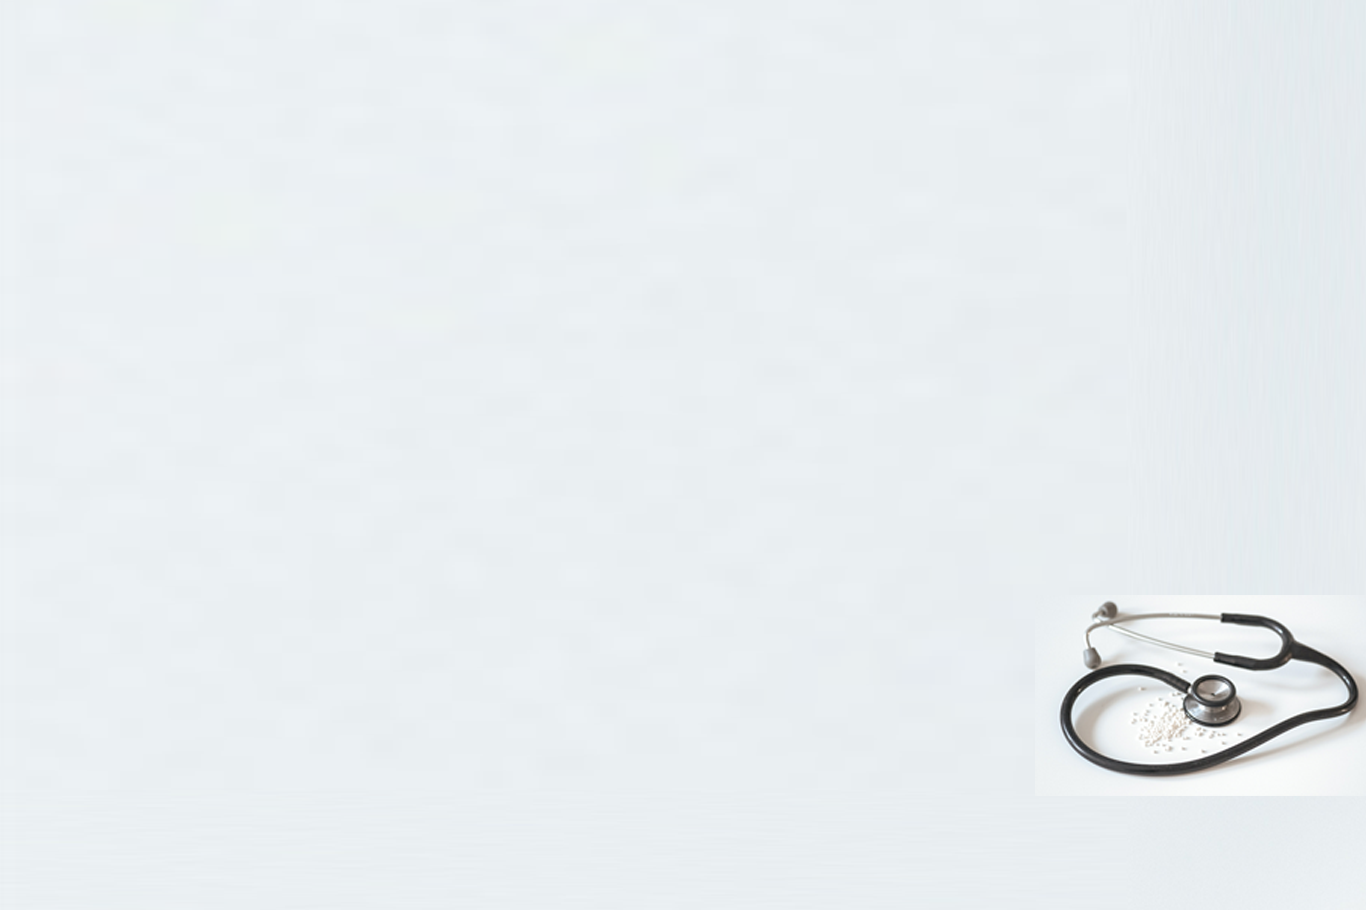
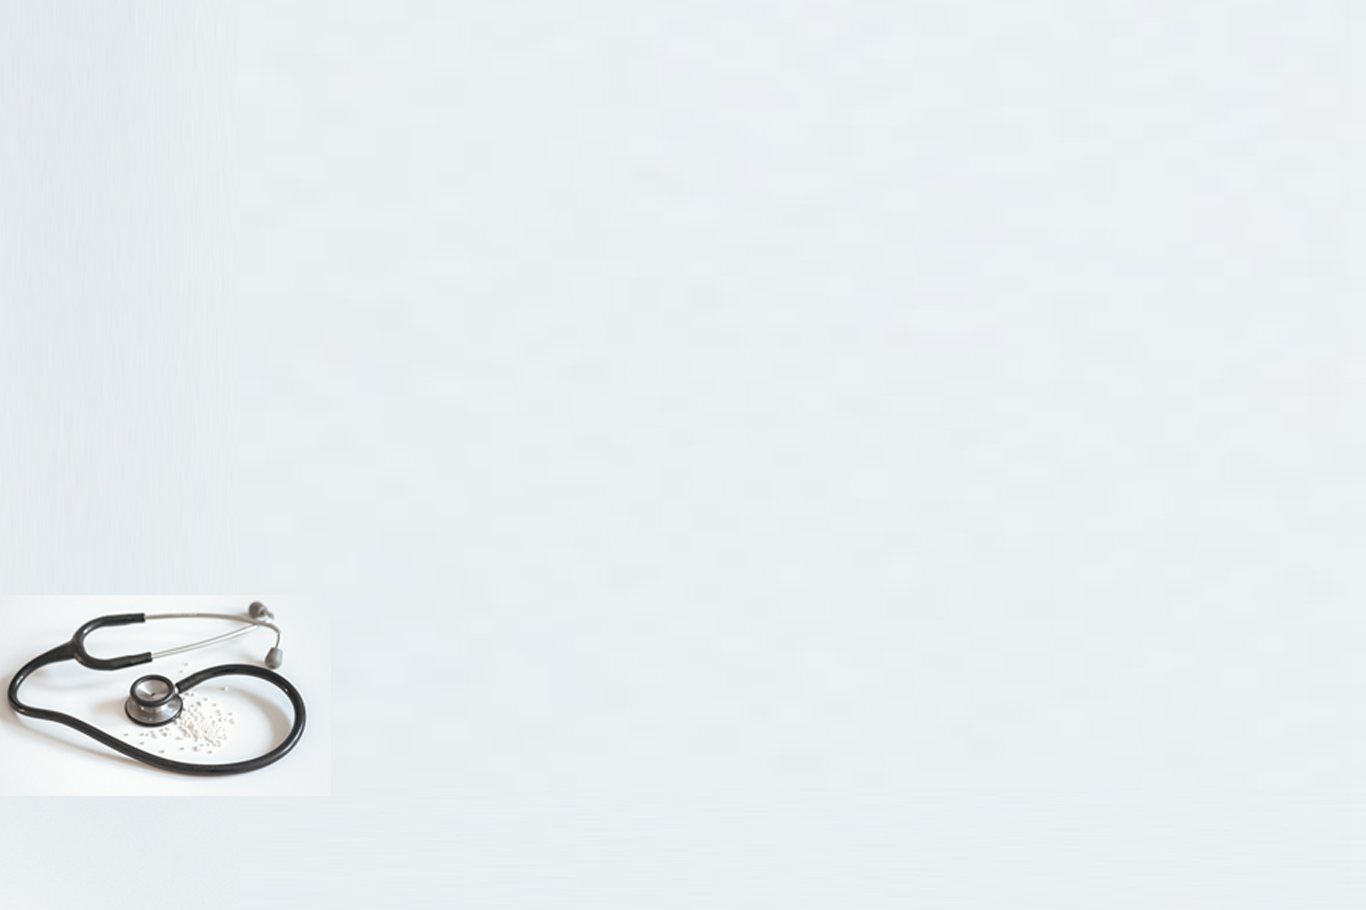
Editan dari rumah

Changed region(s): [[0.0, 0.6462, 0.246, 0.8615], [0.7687, 0.6462, 1.0, 0.8615]]

diff --git a/index.html b/index.html
@@ -10,9 +10,9 @@
 </head>
 <body>
 <div class="body">
-
    <div class="sosmed">
         <ul>
+            <li><a href="#"><i class="fa fa-globe"></i></a></li>
             <li><a href="#"><i class="fab fa-facebook-square"></i></a></li>
             <li><a href="#"><i class="fab fa-instagram-square"></i></a></li>
             <li><a href="#"><i class="fab fa-youtube-square"></i></a></li>
@@ -20,17 +20,28 @@
             <li><a href="#"><i class="fab fa-whatsapp-square"></i></a></li>
         </ul>
     </div>
+    <div class="side-bar">
+        <div class="sosmed2">
+            <ul>
+                <li><a href="#"><i class="fas fa-stethoscope"></i></a></li>
+                <li><a href="#"><i class="far fa-calendar-alt"></i></a></li>
+                <li><a href="#"><i class="fas fa-phone-square-alt"></i></a></li>
+                <li><a href="#"><i class="fas fa-hand-holding-medical"></i></a></li>
+                <li><a href="#"><i class="fas fa-first-aid"></i></a></li>
+            </ul>
+        </div>
+    </div>
     <div class="container">
         <div class="box-header">
            <div class="header">
-                <h1 class="judul">BHAKTI KARTINI</h1>
+                <h1 class="judul"><a href="https://yhamid01.github.io/">BHAKTI KARTINI</a></h1>
                 <small class="melayani">Melayani Sepenuh Hati Setiap Hari Tiada Henti</small>
                 <ul>
-                    <li><a href="#">home</a></li>
-                    <li><a href="#">about</a></li>
-                    <li><a href="#">product</a></li>
-                    <li><a href="#">service</a></li>
-                    <li><a href="#">contact</a></li>
+                    <li><a href="#">Beranda</a></li>
+                    <li><a href="#">Tentang Kami</a></li>
+                    <li><a href="#">Dokter</a></li>
+                    <li><a href="#">Pelayanan</a></li>
+                    <li><a href="#">Kontak</a></li>
                 </ul>
             </div> 
         </div>        
@@ -39,26 +50,30 @@
                     <h1>WELCOME TO RS BHAKTI KARTINI</h1>
                 </div>
             </div>
-                <div class="contain">
-                    <h2>Judul Artikel</h2>
-                    <p class="penulis">Ditulis oleh <a href="#">Yasir Abdul Hamid</a> pada 9 November 2020</p>
-                    <p>Lorem ipsum, dolor sit amet consectetur adipisicing elit. Nostrum architecto ratione eius. Quidem assumenda iste ducimus velit aut fugiat, doloribus inventore aspernatur consequuntur ipsa fugit distinctio ad natus alias rerum dicta reprehenderit iure! Voluptatum, sed reprehenderit beatae eum tempore ut cupiditate culpa perferendis sequi id rem quidem iure at itaque iusto accusantium quia mollitia officiis, sunt ipsam ipsa asperiores numquam corrupti? Ex, officiis adipisci iusto, accusamus odio corrupti expedita sed similique in deleniti, facilis excepturi quis ab possimus eligendi doloremque harum non magni quos tenetur! Libero ea minima amet voluptatem perspiciatis omnis nulla, itaque quaerat consectetur, dolores laboriosam iste excepturi.</p>
-                    <p>Lorem ipsum dolor sit amet, consectetur adipisicing elit. Incidunt laborum soluta praesentium necessitatibus cupiditate placeat, totam possimus aspernatur hic minima? Cum aperiam, ut praesentium magni delectus voluptatem ad perferendis sed culpa reprehenderit in dicta iste nobis assumenda quibusdam tenetur neque ea necessitatibus illum libero amet molestias? Rem quibusdam unde modi.</p>
-                </div>         
-            <div class="footer">
-                <p class="copy">Copyright 2020, Rumah Sakit Bhakti Kartini</p>
-            </div>     
+            <div class="contain">
+                <h2>Visi</h2>                    
+                <p>Lorem ipsum, dolor sit amet consectetur adipisicing elit. Nostrum architecto ratione eius. Quidem assumenda iste ducimus velit aut fugiat, doloribus inventore aspernatur consequuntur ipsa fugit distinctio ad natus alias rerum dicta reprehenderit iure!.</p>
+                <h2>Misi</h2>                    
+                <p>Lorem ipsum, dolor sit amet consectetur adipisicing elit. Nostrum architecto ratione eius. Quidem assumenda iste ducimus velit aut fugiat, doloribus inventore aspernatur consequuntur ipsa fugit distinctio ad natus alias rerum dicta reprehenderit iure!. Lorem ipsum, dolor sit amet consectetur adipisicing elit. Nostrum architecto ratione eius. Quidem assumenda iste ducimus velit aut fugiat, doloribus inventore aspernatur consequuntur ipsa fugit distinctio ad natus alias rerum dicta reprehenderit iure!.</p>
+                    
+            </div>
+
+                <div class="art cf">
+                    <div class="art1"><h3><b>Judul Artikel1</b></h3><p class="penulis"><p class="penulis">Ditulis oleh <a href="#">Yasir Abdul Hamid</a> pada 9 November 2020</p><p> <img src="img/art1.png"></img>
+                    Lorem ipsum, dolor sit amet consectetur adipisicing elit. Nostrum architecto ratione eius. Quidem assumenda iste ducimus velit aut fugiat, doloribus inventore aspernatur consequuntur ipsa fugit distinctio ad natus alias rerum dicta reprehenderit iure!.</p></div>
+                    <div class="art2"><h3><b>Judul Artikel2</b></h3><p class="penulis"><p class="penulis">Ditulis oleh <a href="#">Yasir Abdul Hamid</a> pada 9 November 2020</p><p> <img src="img/art2.png"></img>
+                    Lorem ipsum, dolor sit amet consectetur adipisicing elit. Nostrum architecto ratione eius. Quidem assumenda iste ducimus velit aut fugiat, doloribus inventore aspernatur consequuntur ipsa fugit distinctio ad natus alias rerum dicta reprehenderit iure!.</p></div>
+                    <div class="art3"><h3><b>Judul Artikel1</b></h3><p class="penulis"><p class="penulis">Ditulis oleh <a href="#">Yasir Abdul Hamid</a> pada 9 November 2020</p><p> <img src="img/art3.png"></img>
+                    Lorem ipsum, dolor sit amet consectetur adipisicing elit. Nostrum architecto ratione eius. Quidem assumenda iste ducimus velit aut fugiat, doloribus inventore aspernatur consequuntur ipsa fugit distinctio ad natus alias rerum dicta reprehenderit iure!.</p></div>
+                    <div class="art4"><h3><b>Judul Artikel2</b></h3><p class="penulis"><p class="penulis">Ditulis oleh <a href="#">Yasir Abdul Hamid</a> pada 9 November 2020</p><p> <img src="img/art4.png"></img>
+                    Lorem ipsum, dolor sit amet consectetur adipisicing elit. Nostrum architecto ratione eius. Quidem assumenda iste ducimus velit aut fugiat, doloribus inventore aspernatur consequuntur ipsa fugit distinctio ad natus alias rerum dicta reprehenderit iure!.</p></div>
+                    
+
+                </div>       
     </div> 
-    <div class="side-bar">
-        <div class="sosmed2">
-            <ul>
-                <li><a href="#"><i class="fas fa-stethoscope"></i></a></li>
-                <li><a href="#"><i class="fab fa-instagram-square"></i></a></li>
-                <li><a href="#"><i class="fab fa-youtube-square"></i></a></li>
-                <li><a href="#"><i class="fab fa-twitter-square"></i></a></li>
-                <li><a href="#"><i class="fab fa-whatsapp-square"></i></a></li>
-            </ul>
-        </div>
+    
+    <div class="footer">
+        <p class="copy">Copyright 2020, Rumah Sakit Bhakti Kartini</p>
     </div>
 </div>   
 </body>

diff --git a/css/style.css b/css/style.css
@@ -70,21 +70,10 @@ body {
     background-color: salmon;
     position: fixed;
     top: 182px;
-    right: 168px;
+    right: 70px;
     display: inline-flex;
     border: none;
     border-radius: 0 20px 20px 0;
-}
-.side-bar2 {
-    height: 360px;
-    width: 100px;
-    background-color: salmon;
-    position: fixed;
-    top: 182px;
-    left: 160px;
-    display: inline-flex;
-    border: none;
-    border-radius: 20px 0 0 20px;
 }
 .sosmed ul li {
     display: inline-block;
@@ -93,9 +82,6 @@ body {
     color: white;
     padding-top: 2px;
     }
-    .sosmed2 ul li {
-
-        }
 .sosmed ul li a {
     text-decoration: none;
     color: white;
@@ -105,7 +91,7 @@ body {
         color: white;
         font-size: 65px;
         display: block;
-        margin-left: 17px;
+        margin-left: 10px;
         position: static;
         padding-top: 6px;
     }
@@ -114,7 +100,7 @@ body {
     }
 .container {
     background-color: whitesmoke;
-    width: 800px;
+    width: 1000px;
     margin: auto;
 }
 .box-header {
@@ -126,19 +112,23 @@ body {
     color: brown;
     font-weight: bold;
 }
+.header .judul a:hover {
+    color: brown;
+}
 .header small {
     font-size: 12px;
     padding-top: -10px;
     color: brown;
+    margin-left: 8px;
 }
 .header ul li {
     display: inline-block;
     margin-right: 10px;
     margin-top: 25px;
     margin-bottom: 10px;
+    margin-left: 8px;
     border: thin solid salmon;
     border-radius: 5px;
-
  }
 .header a {
     text-decoration: none;
@@ -147,7 +137,6 @@ body {
 }
 .header li:hover {
     background-color: lightblue;
-    color:white;
 }
 .hero {
     background-image: url(../img/emr.png);
@@ -175,40 +164,128 @@ body {
 }
 .contain {
     background-color: wheat;
+    margin: auto;
+    text-align: center;
+    color: #333;
 }
 .contain h2 {
-    font-size: 24px;
+    font-size: 34px;
     font-weight: bold;
     color: salmon;
     padding-top: 20px;
-    margin-left: 12px;
 }
-.contain .penulis {
-    font-size: 12px;
-    margin-bottom: 20px;
- }
-.penulis a {
-    font-size: 12px;
+.contain p {
+    padding: 20px;
+    font-size: 18px;
+    color: #333;
+
+}
+.art .penulis {
+    font-size: 10px;
+    margin-top: -5px;
+}
+.art a {
+    font-size: 10px;
     text-decoration: none;
     color: salmon;
 }
-.contain p {
+.art p {
     color: #333;
-    margin-left: 12px;
-    margin-right: 12px;
-    text-align: justify;
     padding-bottom: 12px;
+ }
+ .art {
+    margin-top: -12px;
+ }
+ .art .art1 {
+    height: auto;
+    width: 46%;
+    margin-top: 12px;
+    margin-left: 1px;
+    padding-right: 12px;
+    padding-left: 12px;
+    float: left;
+    border: 3px dashed salmon;
+    font: 14px/18px Trebuchet Ms, Sans-serif;
+ }
+ .art .art2 {
+    height: auto;
+    width: 46%;
+    margin-top: 12px;
+    margin-left: 18px;
+    padding-right: 12px;
+    padding-left: 12px;
+    float: left;
+    border: 3px dashed salmon;
+    font: 14px/18px Trebuchet Ms, Sans-serif;
+ }
+ .art .art3 {
+    height: auto;
+    width: 46%;
+    margin-top: 12px;
+    margin-left: 1px;
+    padding-right: 12px;
+    padding-left: 12px;
+    float: left;
+    border: 3px dashed salmon;
+    font: 14px/18px Trebuchet Ms, Sans-serif;
+ }
+ .art .art4 {
+    height: auto;
+    width: 46%;
+    margin-top: 12px;
+    margin-left: 18px;
+    margin-bottom: 12px;
+    padding-right: 12px;
+    padding-left: 12px;
+    float: left;
+    border: 3px dashed salmon;
+    font: 14px/18px Trebuchet Ms, Sans-serif;
+ }
+ .art img {
+    float: left;
+    height: 80px;
  }
 .footer {
     background-color: #333;
     height: 40px;
-    position: relative;
-    bottom: 0;
-    
+    width: 100%;
+    position: absolute;    
 }
 .footer p {
     text-align: center;
     color: white;
     padding-top: 5px;
     font-size: 12px;
+}
+
+
+
+
+
+
+/**
+ * For modern browsers
+ * 1. The space content is one way to avoid an Opera bug when the
+ *    contenteditable attribute is included anywhere else in the document.
+ *    Otherwise it causes space to appear at the top and bottom of elements
+ *    that are clearfixed.
+ * 2. The use of `table` rather than `block` is only necessary if using
+ *    `:before` to contain the top-margins of child elements.
+ */
+.cf:before,
+.cf:after {
+    content: " "; /* 1 */
+    display: table; /* 2 */
+}
+
+.cf:after {
+    clear: both;
+}
+
+/**
+ * For IE 6/7 only
+ * Include this rule to trigger hasLayout and contain floats.
+ */
+.cf {
+    *zoom: 1;
 }
